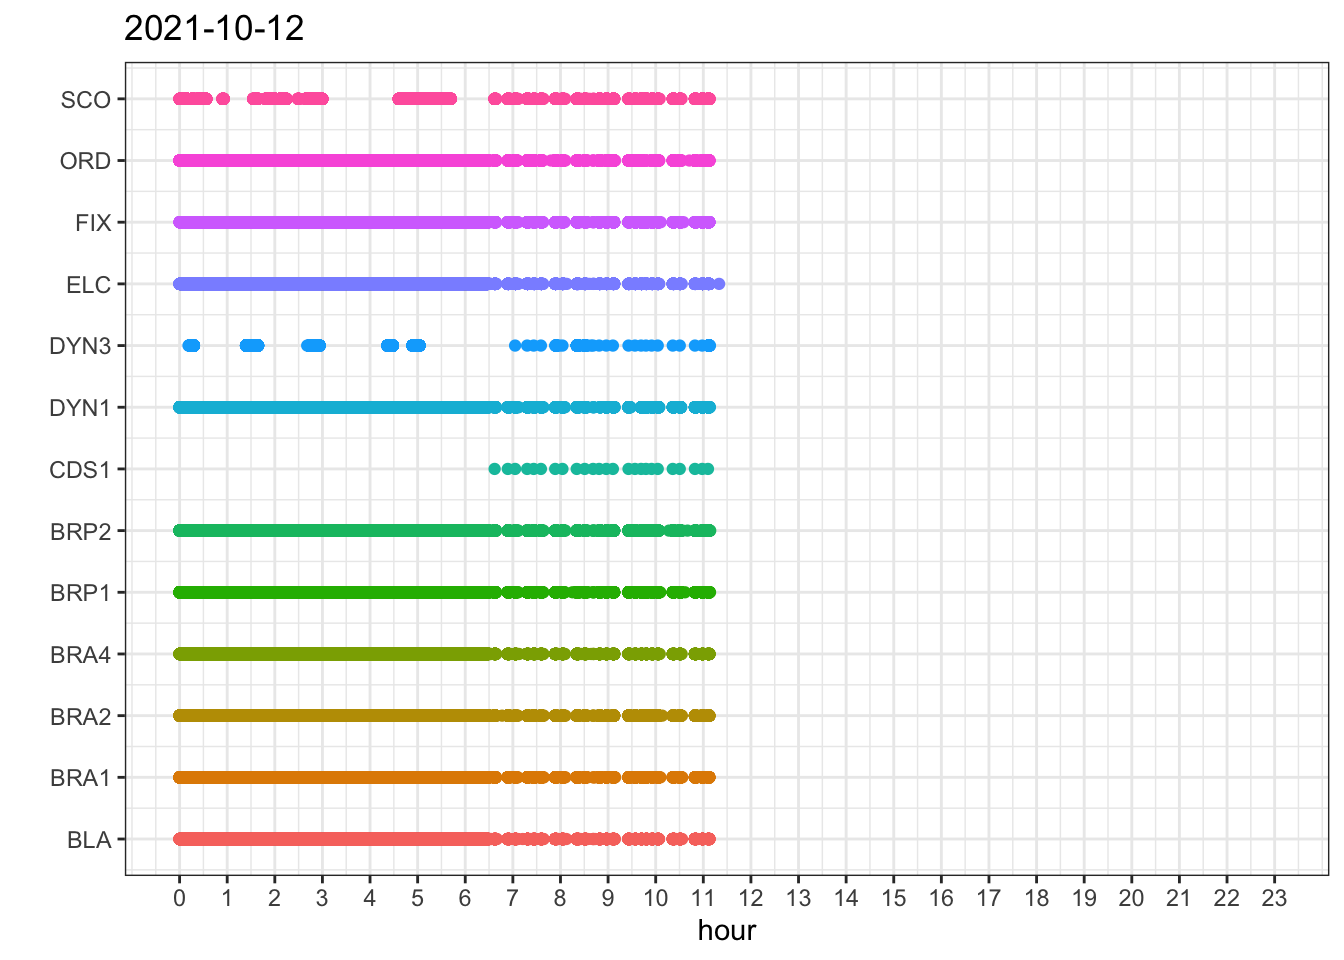
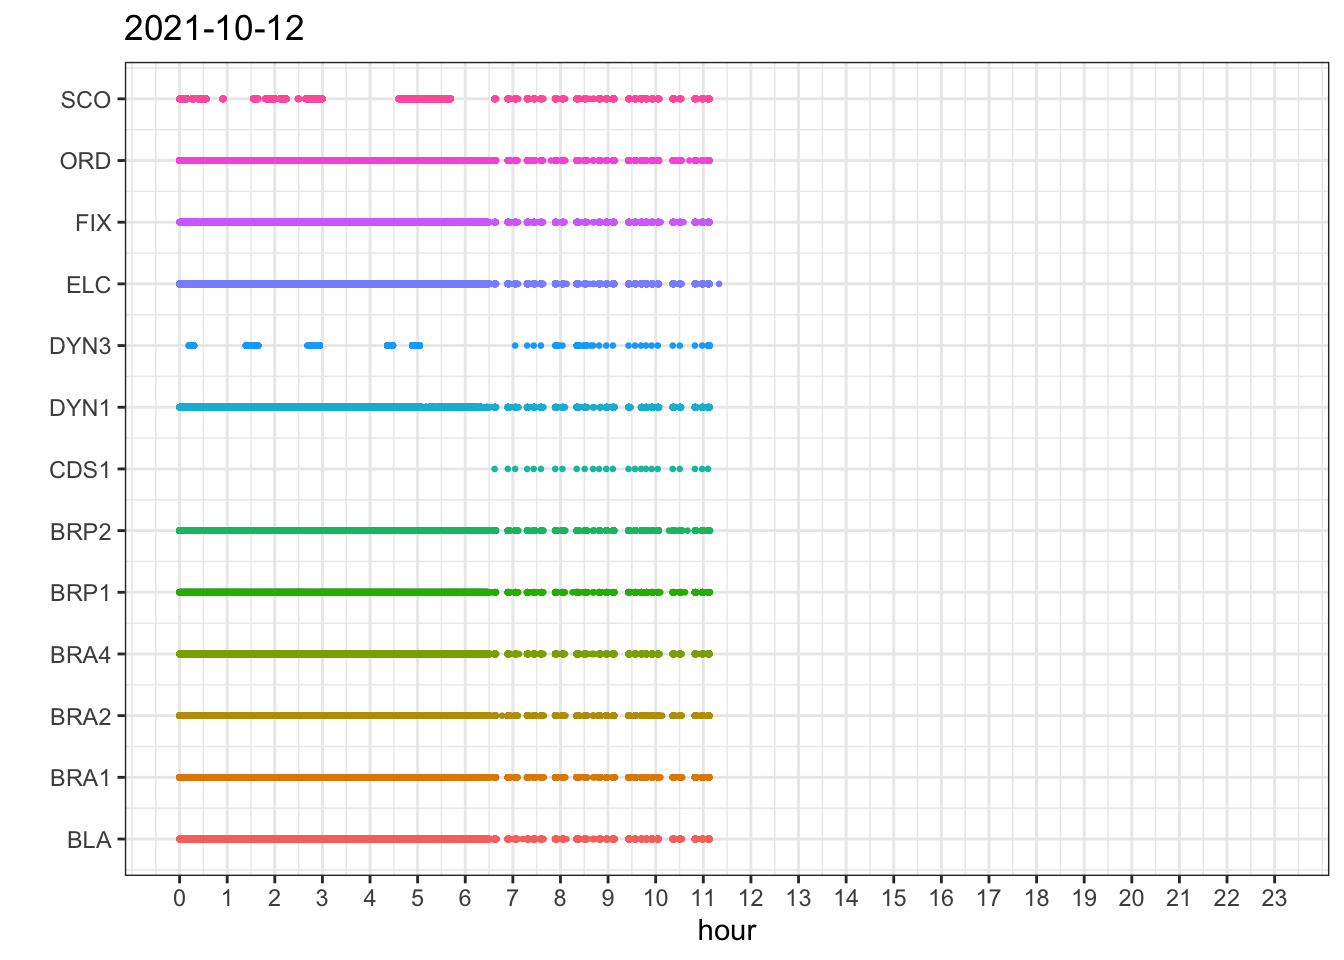
Build site.

diff --git a/docs/2021-10-12.html b/docs/2021-10-12.html
@@ -503,16 +503,16 @@ This reproducible <a href="http://rmarkdown.rstudio.com">R Markdown</a> analysis
 <div class="panel panel-default">
 <div class="panel-heading">
 <p class="panel-title">
-<a data-toggle="collapse" data-parent="#workflowr-checks" href="#strongRepositoryversionstrongahrefhttpsgithubcomcfcforeverTesttreed8ddce7004a9286e7f62bdbd574dd244afd2cbe4targetblankd8ddce7a"> <span class="glyphicon glyphicon-ok text-success" aria-hidden="true"></span> <strong>Repository version:</strong> <a href="https://github.com/cfcforever/Test/tree/d8ddce7004a9286e7f62bdbd574dd244afd2cbe4" target="_blank">d8ddce7</a> </a>
+<a data-toggle="collapse" data-parent="#workflowr-checks" href="#strongRepositoryversionstrongahrefhttpsgithubcomcfcforeverTesttreedec7e99a1cd73dd309c7042050106acb7116d264targetblankdec7e99a"> <span class="glyphicon glyphicon-ok text-success" aria-hidden="true"></span> <strong>Repository version:</strong> <a href="https://github.com/cfcforever/Test/tree/dec7e99a1cd73dd309c7042050106acb7116d264" target="_blank">dec7e99</a> </a>
 </p>
 </div>
[2 lines of base64/hex data omitted]
 <div class="panel-body">
 <p>
 Great! You are using Git for version control. Tracking code development and connecting the code version to the results is critical for reproducibility.
 </p>
 <p>
-The results in this page were generated with repository version <a href="https://github.com/cfcforever/Test/tree/d8ddce7004a9286e7f62bdbd574dd244afd2cbe4" target="_blank">d8ddce7</a>. See the <em>Past versions</em> tab to see a history of the changes made to the R Markdown and HTML files.
+The results in this page were generated with repository version <a href="https://github.com/cfcforever/Test/tree/dec7e99a1cd73dd309c7042050106acb7116d264" target="_blank">dec7e99</a>. See the <em>Past versions</em> tab to see a history of the changes made to the R Markdown and HTML files.
 </p>
 <p>
 Note that you need to be careful to ensure that all relevant files for the analysis have been committed to Git prior to generating the results (you can use <code>wflow_publish</code> or <code>wflow_git_commit</code>). workflowr only checks the R Markdown file, but you know if there are other scripts or data files that it depends on. Below is the status of the Git repository when the results were generated:
@@ -528,6 +528,9 @@ Ignored files:
     Ignored:    data/plan/
     Ignored:    fig/
     Ignored:    workflowr.R
+
+Untracked files:
+    Untracked:  analysis/2021-10-12b.Rmd
 
 </code></pre>
 <p>
@@ -566,6 +569,40 @@ Message
 </tr>
 </thead>
 <tbody>
+<tr>
+<td>
+Rmd
+</td>
+<td>
+<a href="https://github.com/cfcforever/Test/blob/dec7e99a1cd73dd309c7042050106acb7116d264/analysis/2021-10-12.Rmd" target="_blank">dec7e99</a>
+</td>
+<td>
+cfcforever
+</td>
+<td>
+2021-10-12
+</td>
+<td>
+add new analysis
+</td>
+</tr>
+<tr>
+<td>
+html
+</td>
+<td>
+<a href="https://rawcdn.githack.com/cfcforever/Test/1c7eeca3987d305bb4b2a350401616d2b2e2f3ae/docs/2021-10-12.html" target="_blank">1c7eeca</a>
+</td>
+<td>
+cfcforever
+</td>
+<td>
+2021-10-12
+</td>
+<td>
+Build site.
+</td>
+</tr>
 <tr>
 <td>
 html
@@ -1603,7 +1640,7 @@ SCO
 <h3>plot with NAs</h3>
 <pre class="r"><code>timestamp_breaks = as.numeric(as.POSIXct(paste0(today, &quot; &quot;, sprintf(&quot;%02d&quot;, 0:23), &quot;:00:00 CEST&quot;))) + 3600*6
 p &lt;- ggplot(dat) + theme_bw() + 
-  geom_point(aes(x=record_timestamp, y=tagn, col=tagn)) +
+  geom_point(aes(x=record_timestamp, y=tagn, col=tagn), size=0.5) +
   scale_x_continuous(breaks = timestamp_breaks, labels = 0:23) +
   scale_y_continuous(breaks = 1:nb_tag, labels = names_tag$label) + 
   scale_color_gradientn(colours = hue_pal()(nb_tag)) + 
@@ -1664,7 +1701,7 @@ cat(&quot;if x_na = y_na:&quot;, identical(x_na, y_na), &quot;\n&quot;)</code></
 }</code></pre>
 <pre class="r"><code>timestamp_breaks = as.numeric(as.POSIXct(paste0(today, &quot; &quot;, sprintf(&quot;%02d&quot;, 0:23), &quot;:00:00 CEST&quot;))) + 3600*6
 p &lt;- ggplot(dat) + theme_bw() + 
-  geom_point(aes(x=record_timestamp, y=tagn, col=tagn)) +
+  geom_point(aes(x=record_timestamp, y=tagn, col=tagn), size=0.5) +
   scale_x_continuous(breaks = timestamp_breaks, labels = 0:23) +
   scale_y_continuous(breaks = 1:nb_tag, labels = names_tag$label) + 
   scale_color_gradientn(colours = hue_pal()(nb_tag)) + 
